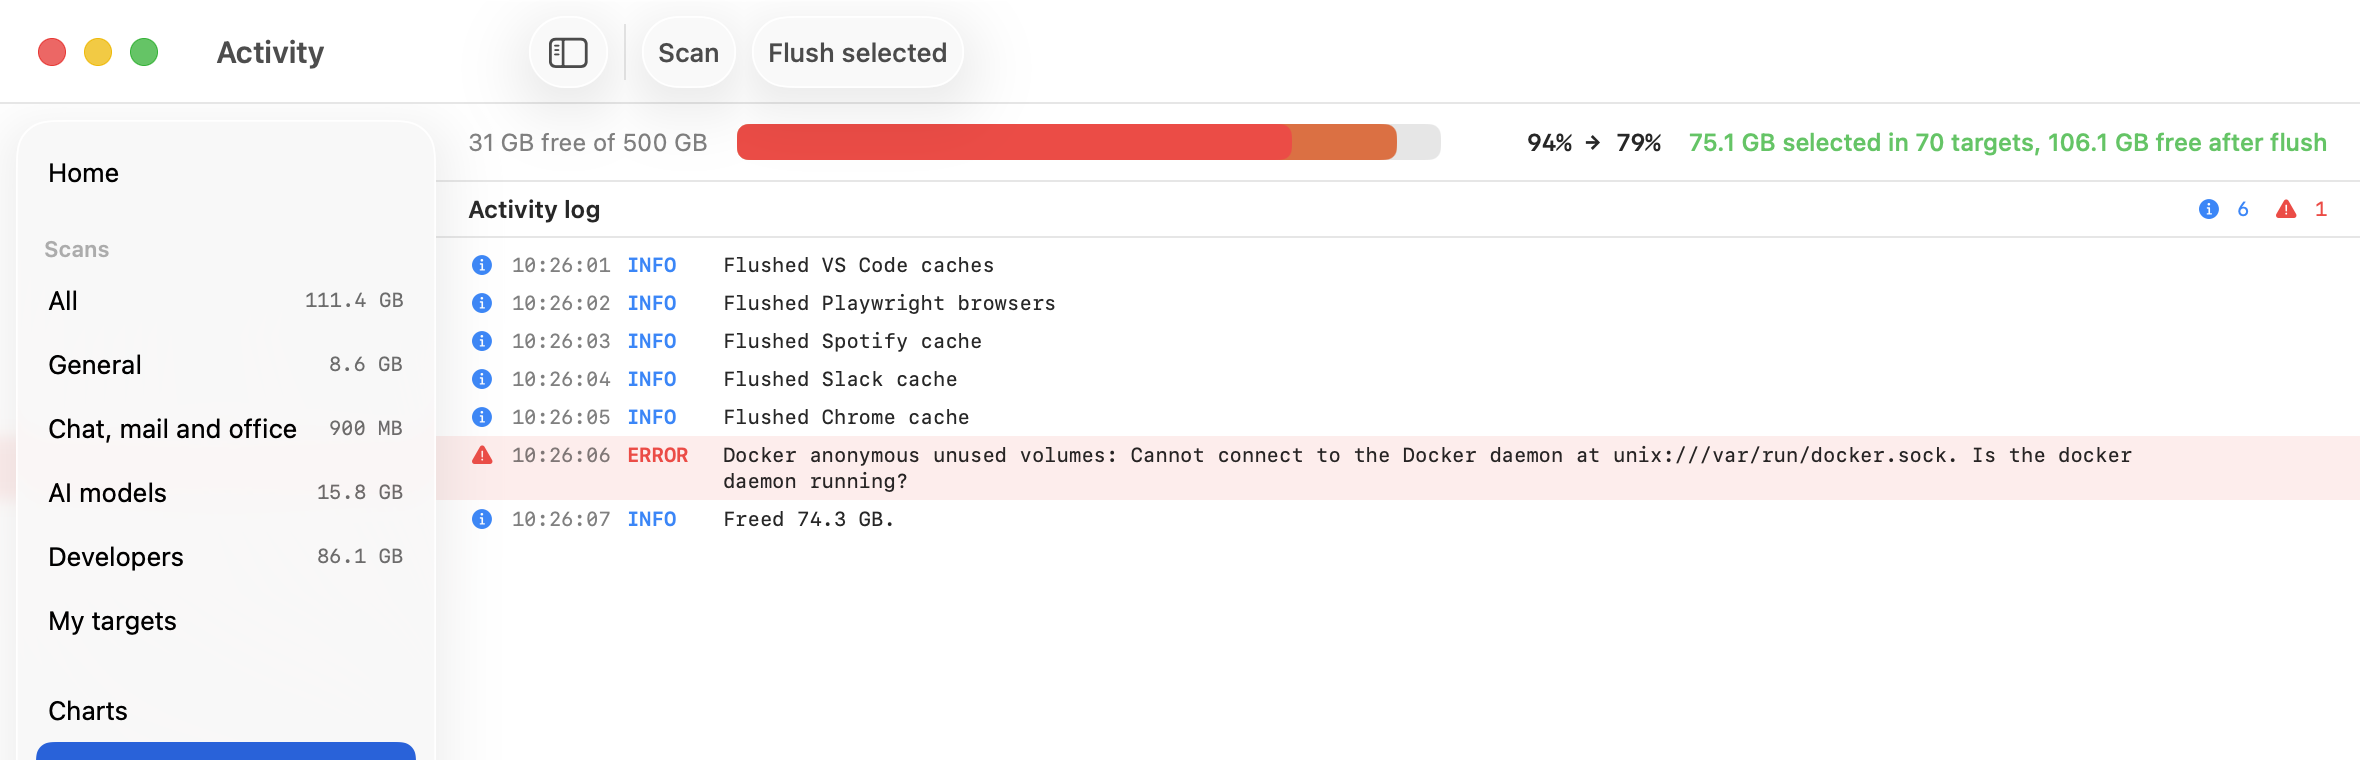
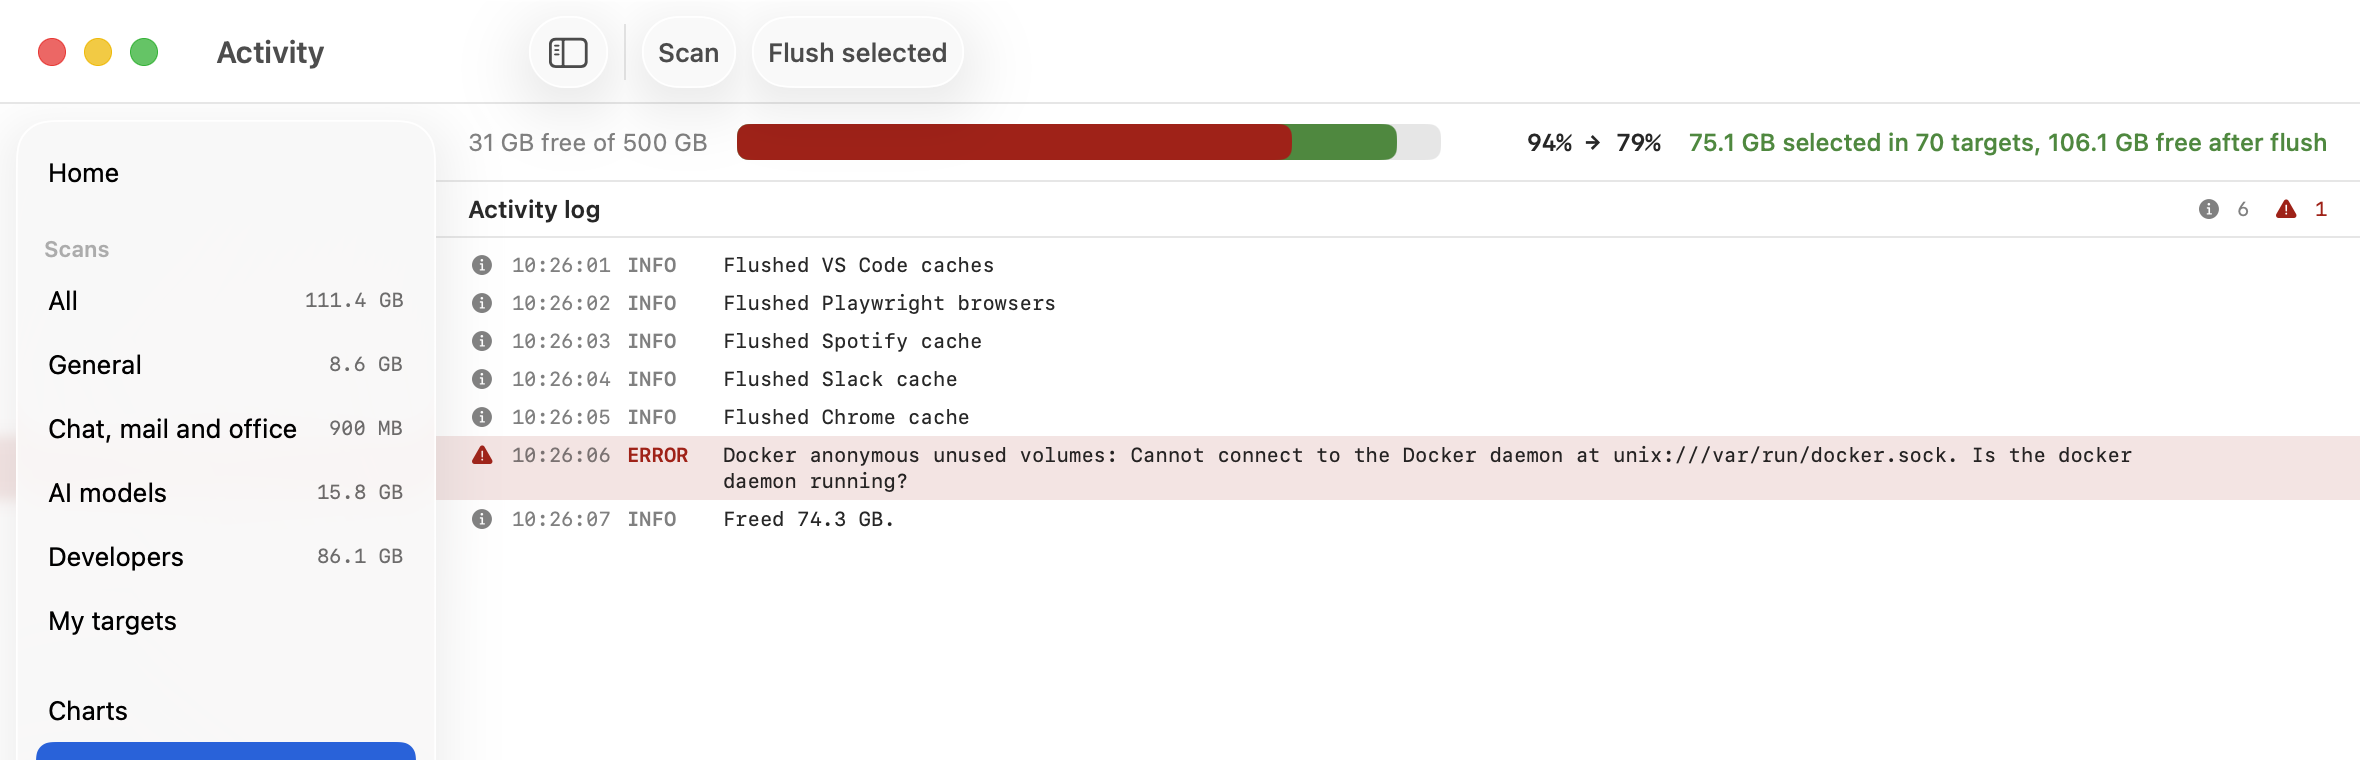
Chart colours of the Code 2026 themes

diff --git a/Sources/MacOSFlusher/ContentView.swift b/Sources/MacOSFlusher/ContentView.swift
@@ -280,7 +280,7 @@ struct DiskLine: View {
                 PercentBar(
                     fraction: expected,
                     behind: disk.usedFraction,
-                    tint: disk.usedFraction > 0.9 ? Color.red : Color.accentColor,
+                    tint: disk.usedFraction > 0.9 ? Palette.warning : Palette.otherData,
                     label: store.selectedTotal > 0
                         ? "\(Format.percent(disk.usedFraction)) → \(Format.percent(expected))"
                         : Format.percent(disk.usedFraction)
@@ -288,13 +288,13 @@ struct DiskLine: View {
                 if let after = store.expectedFreeAfterFlush, store.selectedTotal > 0 {
                     Text("\(Format.bytes(store.selectedTotal)) selected in \(Messages.targets(store.selectedCount)), \(Format.bytes(after)) free after flush")
                         .font(.callout.weight(.medium))
-                        .foregroundStyle(.green)
+                        .foregroundStyle(Palette.selected)
                         .fixedSize()
                 }
                 if let freed = store.lastFreed {
                     Text("Freed \(Format.bytes(freed))")
                         .font(.callout.weight(.medium))
-                        .foregroundStyle(.green)
+                        .foregroundStyle(Palette.selected)
                         .fixedSize()
                 }
             }
@@ -461,8 +461,8 @@ extension LogLevel {
 
     var color: Color {
         switch self {
-        case .info: return .blue
-        case .error: return .red
+        case .info: return .secondary
+        case .error: return Palette.warning
         }
     }
 }
@@ -488,7 +488,7 @@ struct LogRow: View {
         .font(.system(.caption, design: .monospaced))
         .padding(.horizontal)
         .padding(.vertical, 3)
-        .background(entry.level == .error ? Color.red.opacity(0.1) : Color.clear)
+        .background(entry.level == .error ? Palette.warning.opacity(0.12) : Color.clear)
     }
 }
 

diff --git a/Sources/MacOSFlusher/Charts.swift b/Sources/MacOSFlusher/Charts.swift
@@ -2,10 +2,20 @@ import SwiftUI
 import AppKit
 
 enum Palette {
-    static let otherData = dynamic(light: 0x2a78d6, dark: 0x3987e5)
-    static let unselected = dynamic(light: 0x1baf7a, dark: 0x199e70)
-    static let selected = dynamic(light: 0xeb6834, dark: 0xd95926)
+    static let blue = (light: 0x1A5CFF, dark: 0x57A3F8)
+    static let green = (light: 0x388A34, dark: 0x86CF86)
+    static let yellow = (light: 0x667309, dark: 0xE0B97F)
+    static let red = (light: 0xAD0707, dark: 0xEF8773)
+
+    static let otherData = dynamic(blue)
+    static let selected = dynamic(green)
+    static let unselected = dynamic(yellow)
+    static let warning = dynamic(red)
     static let free = Color.secondary.opacity(0.25)
+
+    private static func dynamic(_ pair: (light: Int, dark: Int)) -> Color {
+        dynamic(light: pair.light, dark: pair.dark)
+    }
 
     private static func dynamic(light: Int, dark: Int) -> Color {
         Color(nsColor: NSColor(name: nil) { appearance in

diff --git a/Tests/MacOSFlusherTests/PaletteTests.swift b/Tests/MacOSFlusherTests/PaletteTests.swift
@@ -1,0 +1,11 @@
+import Testing
+@testable import MacOSFlusher
+
+@Suite struct PaletteTests {
+    @Test func usesTheCode2026Colours() {
+        #expect(Palette.blue.light == 0x1A5CFF && Palette.blue.dark == 0x57A3F8)
+        #expect(Palette.green.light == 0x388A34 && Palette.green.dark == 0x86CF86)
+        #expect(Palette.yellow.light == 0x667309 && Palette.yellow.dark == 0xE0B97F)
+        #expect(Palette.red.light == 0xAD0707 && Palette.red.dark == 0xEF8773)
+    }
+}
